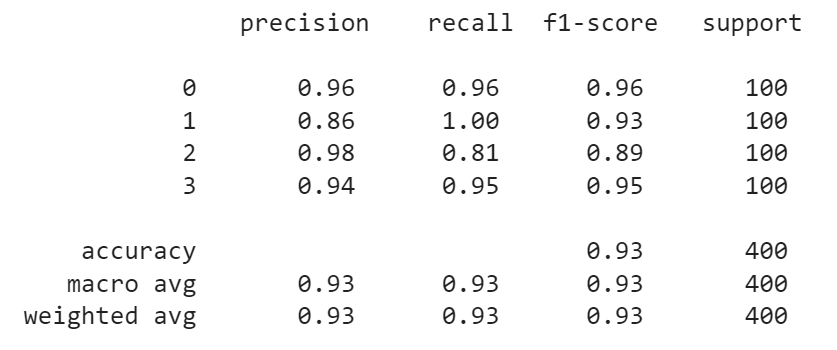
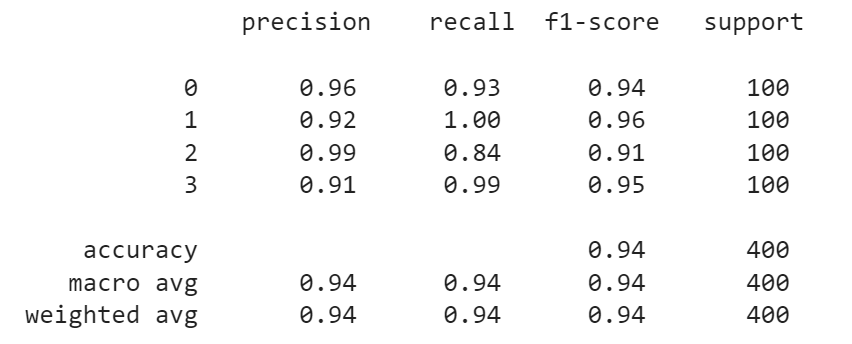
update

diff --git a/src/pages/classifier.js b/src/pages/classifier.js
@@ -60,7 +60,7 @@ const Classifier = () => {
     const formData = new FormData();
     formData.append('image', files[0], files[0].name);
     
-    axios.post('https://imageclassification-de89d7d50c49.herokuapp.com/api/classifier/', formData, {
+    axios.post('http://127.0.0.1:8000/api/classifier/', formData, {
       headers: {
         'accept': 'application/json',
         'content-type': 'multipart/form-data'
@@ -74,7 +74,7 @@ const Classifier = () => {
   };
   
   const getClassificationResult = (obj) => {
-    axios.get(`https://imageclassification-de89d7d50c49.herokuapp.com/api/classifier/${obj.data.id}/`, {
+    axios.get(`http://127.0.0.1:8000/api/classifier/${obj.data.id}/`, {
       headers: {
         'accept': 'application/json',
       }

diff --git a/src/components/Evaluation.js b/src/components/Evaluation.js
@@ -50,8 +50,8 @@ const Evaluation = () => {
             paddingBottom={3}
             marginBottom='15px'
           >
-            Accuracy on train set : 96%
-            Accuracy on test set : 93%
+            Accuracy on train set : 97%
+            Accuracy on test set : 94%
 
             <div style={{textAlign: 'center'}} >
               <div style={{margin: '0 auto'}}>
